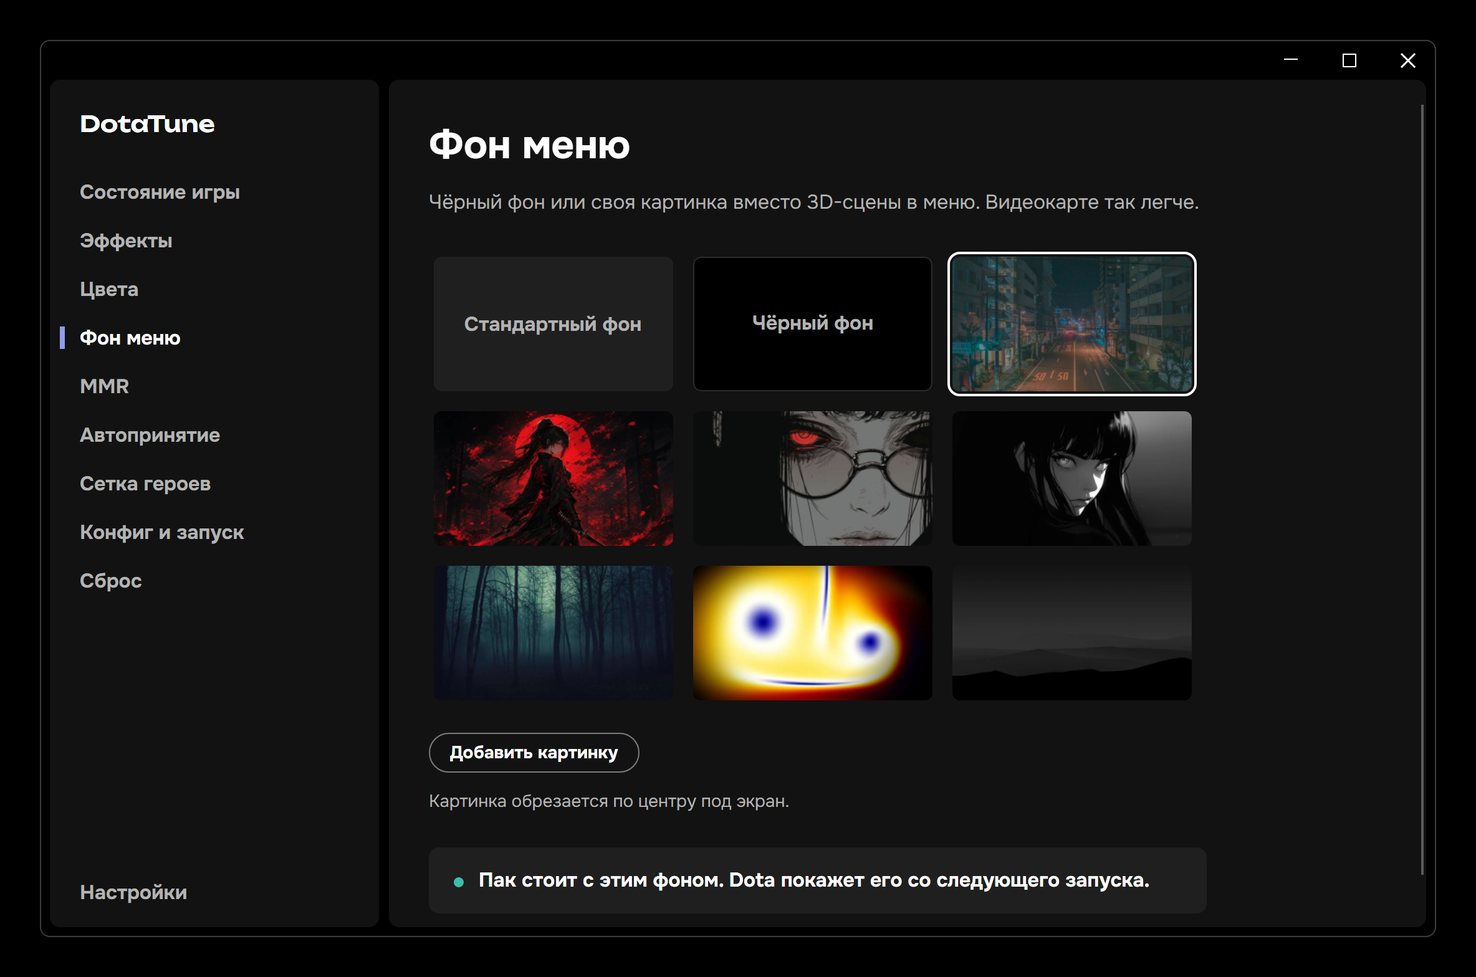
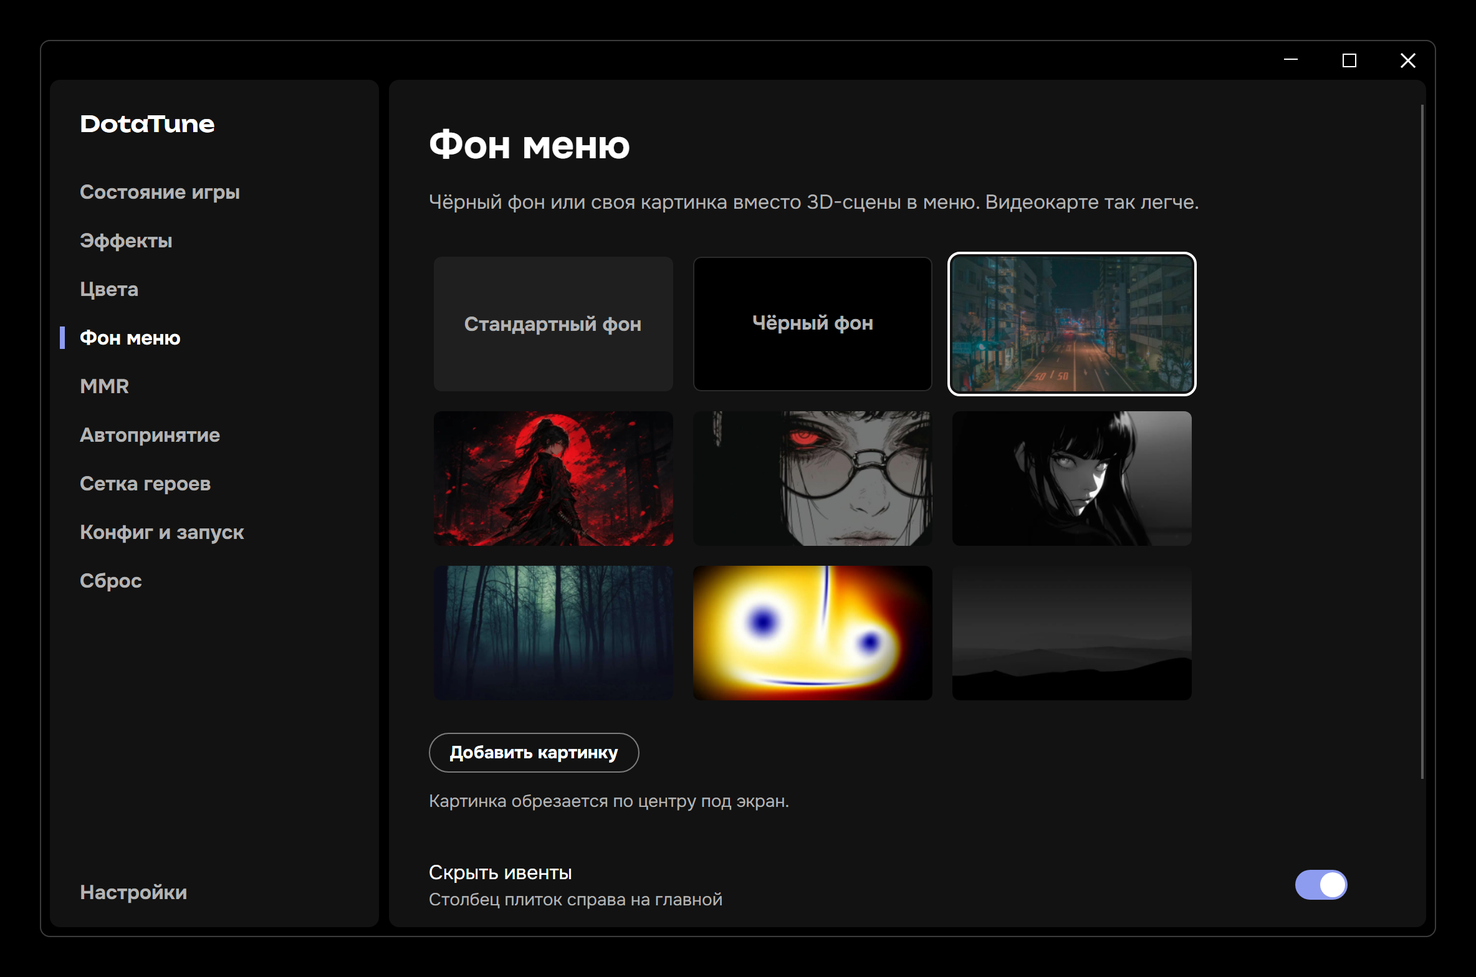
DotaTune 0.3.0
- Версия 0.3.0, раздел 0.3.0 в CHANGELOG.md: он же текст карточки «Что нового»
- README: обновление само с 0.3.0, переход с 0.1.0 и 0.2.0 установщиком, скрытие
  ивентов на главной, файлы выпуска для обновлений, скрипты меню
- Снимок страницы «Фон меню» с переключателем «Скрыть ивенты»

Changed region(s): [[0.2812, 0.875, 0.7812, 0.9375], [0.875, 0.875, 0.9062, 0.9375]]

diff --git a/README.md b/README.md
@@ -8,7 +8,7 @@
 
 <a href="https://github.com/zxczxczxczxczxczxc1111/dotatune/releases/latest"><img src="assets/readme/download.svg" width="248" height="48" alt="Скачать для Windows"></a>
 
-<sub>Версия 0.2.0 для Windows 10 и 11 x64</sub>
+<sub>Версия 0.3.0 для Windows 10 и 11 x64</sub>
 
 <a href="#возможности">Возможности</a>&emsp;<a href="#экраны">Экраны</a>&emsp;<a href="#установка">Установка</a>&emsp;<a href="#справка">Справка</a>
 
@@ -38,6 +38,7 @@ DotaTune собирает из выбранных настроек свой па
 ### Меню и матч
 
 - **Фон меню**: чёрный фон, одна из семи картинок или своя вместо 3D-сцены, видеокарте так легче
+- **Без ивентов на главной**: столбец плиток ивентов справа прячется одним переключателем
 - **MMR в игре**: число у ника в главном меню и изменение после игр рядом с числом в профиле. Число игра отдаёт, когда ты сам открываешь профиль, а программа хранит историю всех показаний по аккаунтам
 - **Автопринятие**: найденный матч принимается сам через 1-15 секунд. Если примешь раньше, DotaTune не вмешивается
 - **Сетка героев**: готовые раскладки по позициям по статистике Stratz и Spectral, обновляются раз в день, и арт-сетки. Твои сетки остаются, раскладки DotaTune помечены `#DotaTune-Import`
@@ -55,6 +56,7 @@ DotaTune собирает из выбранных настроек свой па
 - **Состояние игры**: где стоят Steam и Dota, версия игры, чужие моды и на месте ли пак. Кнопка <kbd>Играть</kbd> запускает игру и проверяет, подключила ли она пак
 - **Сброс**: одна кнопка возвращает игру к виду до DotaTune, вместе со старыми паками, о которых программа уже не помнит
 - **Русский и английский**: язык интерфейса программы выбирается в настройках
+- **Обновления**: новая версия ставится сама, потом карточка «Что нового» показывает, что поменялось, и предлагает пересобрать пак
 
 ## Экраны
 
@@ -68,11 +70,11 @@ DotaTune собирает из выбранных настроек свой па
     <td align="center"><b>Цвета</b><br><sub>Клики, выделение, подсветка героя и миникарта</sub></td>
   </tr>
   <tr>
-    <td width="50%"><a href="assets/readme/menu.webp"><img src="assets/readme/menu.webp" width="100%" alt="Страница «Фон меню»: выбрана картинка с ночной улицей, рядом стандартный и чёрный фон, ещё шесть картинок и кнопка «Добавить картинку»"></a></td>
+    <td width="50%"><a href="assets/readme/menu.webp"><img src="assets/readme/menu.webp" width="100%" alt="Страница «Фон меню»: выбрана картинка с ночной улицей, рядом стандартный и чёрный фон, ещё шесть картинок, кнопка «Добавить картинку» и включённый переключатель «Скрыть ивенты»"></a></td>
     <td width="50%"><a href="assets/readme/mmr.webp"><img src="assets/readme/mmr.webp" width="100%" alt="Страница «MMR»: показ MMR в игре включён, история из пяти показаний с изменением за игры"></a></td>
   </tr>
   <tr>
-    <td align="center"><b>Фон меню</b><br><sub>Чёрный фон, готовая картинка или своя</sub></td>
+    <td align="center"><b>Фон меню</b><br><sub>Чёрный фон, готовая картинка или своя, ивенты на главной скрываются</sub></td>
     <td align="center"><b>MMR</b><br><sub>Строка у ника и история показаний</sub></td>
   </tr>
   <tr>
@@ -93,7 +95,7 @@ DotaTune собирает из выбранных настроек свой па
 2. **Выбери настройки** на страницах программы и нажми <kbd>Поставить пак</kbd>. Пока Dota запущена, пак не ставится и не убирается.
 3. **Играй.** Кнопка <kbd>Играть</kbd> на странице «Состояние игры» запустит Dota и скажет, подключила ли она пак. Изменения пака игра берёт при следующем запуске.
 
-Новую версию ставь тем же установщиком: он покажет стоящую и новую версию, закроет открытую программу и обновит её.
+С версии 0.3.0 DotaTune обновляется сама: новая версия качается при запуске и ставится с перезапуском, когда программа ничего не пишет в игру. Если версия нашлась позже первых секунд после запуска или нажато «Позже», она ставится при закрытии программы или кнопкой «Поставить сейчас» в настройках. С 0.1.0 и 0.2.0 на 0.3.0 переходят установщиком: он покажет стоящую и новую версию, закроет открытую программу и обновит её.
 
 > [!NOTE]
 > Установщик не подписан сертификатом издателя, поэтому Windows SmartScreen может предупредить о неизвестном издателе: «Подробнее» → «Выполнить в любом случае». Сумма SHA-256 указана в описании выпуска.
@@ -105,11 +107,11 @@ DotaTune собирает из выбранных настроек свой па
 
 **Риск бана.** DotaTune работает только с файлами: кладёт пак в папку языка игры и пишет файлы настроек, так же устроены и другие моды. Память игры и её exe он не трогает. Гарантий от Valve нет ни у одного мода.
 
-**Настройка не дошла до игры.** Эффекты, цвета кликов, фон меню, MMR и автопринятие живут в паке. После изменений пересобери пак кнопкой на той же странице и перезапусти игру. Команды из `autoexec.cfg` и параметры запуска игра тоже читает только при запуске.
+**Настройка не дошла до игры.** Эффекты, цвета кликов, фон меню, скрытие ивентов, MMR и автопринятие живут в паке. После изменений пересобери пак кнопкой на той же странице и перезапусти игру. Команды из `autoexec.cfg` и параметры запуска игра тоже читает только при запуске.
 
 **MMR не появился.** Игра отдаёт число, когда ты сам открываешь профиль, и только для откалиброванного рейтинга. История пишется из журнала консоли игры: с параметром `-condebug` всегда, без него только когда игра запущена кнопкой <kbd>Играть</kbd>.
 
-**Обновилась Dota.** На странице «Состояние игры» появится «Игра обновилась, поставь пак заново». Поставь: автопринятие и строку MMR DotaTune дописывает к файлам меню из текущей версии игры, и пак соберётся под новую.
+**Обновилась Dota.** На странице «Состояние игры» появится «Игра обновилась, поставь пак заново». Поставь: автопринятие, строку MMR и скрытие ивентов DotaTune дописывает к файлам меню из текущей версии игры, и пак соберётся под новую.
 
 **Удаление.** Через «Установленные приложения» Windows. Удаление забирает из игры пак, блок `autoexec.cfg` и сетки героев, а при закрытом Steam и параметры запуска. Настройки программы остаются в `%AppData%\DotaTune`.
 
@@ -120,13 +122,13 @@ DotaTune собирает из выбранных настроек свой па
 
 | Что | Где |
 |---|---|
-| Пак: эффекты, цвета кликов, фон меню, MMR, автопринятие | `game\dota_<язык озвучки>\pak40_dir.vpk` в папке игры, номер больше, если этот занят |
+| Пак: эффекты, цвета кликов, фон меню, скрытие ивентов, MMR, автопринятие | `game\dota_<язык озвучки>\pak40_dir.vpk` в папке игры, номер больше, если этот занят |
 | Язык озвучки, если он английский | `game\dota\cfg\boot.vcfg` |
 | Команды игры и цвета миникарты | блок DotaTune в `game\dota\cfg\autoexec.cfg` |
 | Параметры запуска | `Steam\userdata\<аккаунт>\config\localconfig.vdf` |
 | Сетка героев | `Steam\userdata\<аккаунт>\570\remote\cfg\hero_grid_config.json` |
 
-**Зачем выбирается папка.** Всё, что лежит в паке, работает, только если игра подгрузит пак при запуске. Свои файлы поверх стандартных Dota берёт только из папки языка озвучки, например `game\dota_russian`, а при `-language` в параметрах запуска из папки этого языка. Поэтому DotaTune сначала смотрит, какая озвучка стоит в игре, и кладёт пак в её папку. Положи пак в другое место, и игра его не увидит: эффекты, цвета кликов, фон меню, MMR и автопринятие не сработают. Подгрузила ли игра пак, проверяет кнопка <kbd>Играть</kbd>.
+**Зачем выбирается папка.** Всё, что лежит в паке, работает, только если игра подгрузит пак при запуске. Свои файлы поверх стандартных Dota берёт только из папки языка озвучки, например `game\dota_russian`, а при `-language` в параметрах запуска из папки этого языка. Поэтому DotaTune сначала смотрит, какая озвучка стоит в игре, и кладёт пак в её папку. Положи пак в другое место, и игра его не увидит: эффекты, цвета кликов, фон меню, скрытие ивентов, MMR и автопринятие не сработают. Подгрузила ли игра пак, проверяет кнопка <kbd>Играть</kbd>.
 
 У английской озвучки такой папки нет, поэтому при ней DotaTune ставит в `boot.vcfg` озвучку без скачанных голосов: русскую, а если русские голоса скачаны, китайскую или корейскую. Если голоса скачаны у всех трёх, пак не ставится, чтобы озвучка не сменилась. Язык текста игры и Steam не меняется.
 
@@ -174,9 +176,9 @@ dotnet test DotaTune.slnx
 pwsh -File build\pack.ps1
 ```
 
-`build\pack.ps1` собирает установщик `releases\DotaTune-Setup.exe`: окно DotaTune, которое отличает первую установку от обновления и запускает внутри себя установку Velopack без её окна.
+`build\pack.ps1` собирает установщик `releases\DotaTune-Setup.exe`: окно DotaTune, которое отличает первую установку от обновления и запускает внутри себя установку Velopack без её окна. В конце скрипт печатает файлы для выпуска на GitHub: кроме установщика это `releases.win.json` и пакеты `.nupkg`, по ним программа находит и качает обновления.
 
-Скрипт меню для строки MMR уже собран и лежит в `src/DotaTune.Core/Mmr/Panorama/compiled`. Пересобирать его нужно, только если меняешь исходник: `build\panorama.ps1` с Dota 2 Workshop Tools.
+Скрипты меню для строки MMR и скрытия ивентов уже собраны и лежат в `src/DotaTune.Core/Mmr/Panorama/compiled`. Пересобирать их нужно, только если меняешь исходник: `build\panorama.ps1` с Dota 2 Workshop Tools.
 
 </details>
 

diff --git a/CHANGELOG.md b/CHANGELOG.md
@@ -3,6 +3,32 @@
 Формат по [Keep a Changelog](https://keepachangelog.com/ru/1.1.0/), версии по
 [SemVer](https://semver.org/lang/ru/).
 
+## [0.3.0] - 2026-10-28
+
+### Добавлено
+
+- DotaTune обновляется сама: новая версия качается при запуске и ставится с
+  перезапуском, когда программа ничего не пишет в игру. Если версия нашлась позже
+  первых секунд после запуска или нажато «Позже», она ставится при закрытии.
+- Блок «Обновления» в настройках: «Проверить сейчас» и «Поставить сейчас».
+- После обновления карточка «Что нового» и «Пересобрать пак» с тем, что уже
+  стояло в паке.
+- «Фон меню»: переключатель «Скрыть ивенты» убирает столбец плиток ивентов справа
+  на главной.
+
+### Изменено
+
+- Повторный запуск выводит вперёд уже открытое окно, вторая копия не открывается.
+- Если включены все группы эффектов, новая группа из следующей версии сама не
+  включится.
+
+### Исправлено
+
+- Фон меню больше не ломает окно набора из арсенала и страницу Quartero's Curios:
+  подменяются только фоны.
+- Если фон не встаёт в этой версии игры, страница «Фон меню» говорит, что он
+  недоступен.
+
 ## [0.2.0] - 2026-10-27
 
 ### Добавлено
